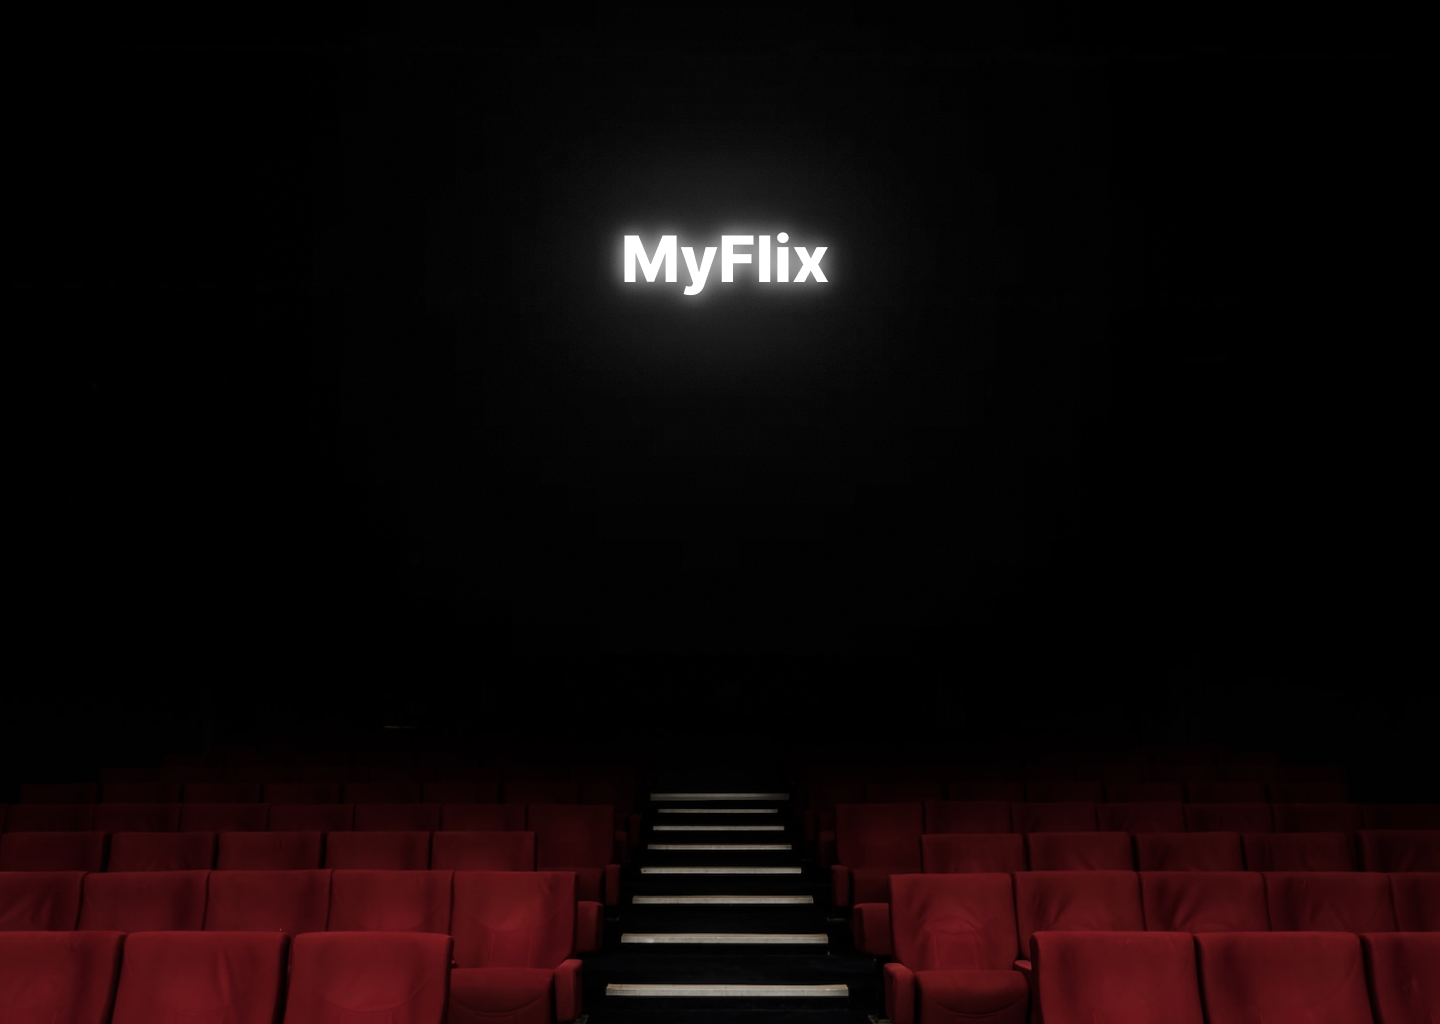
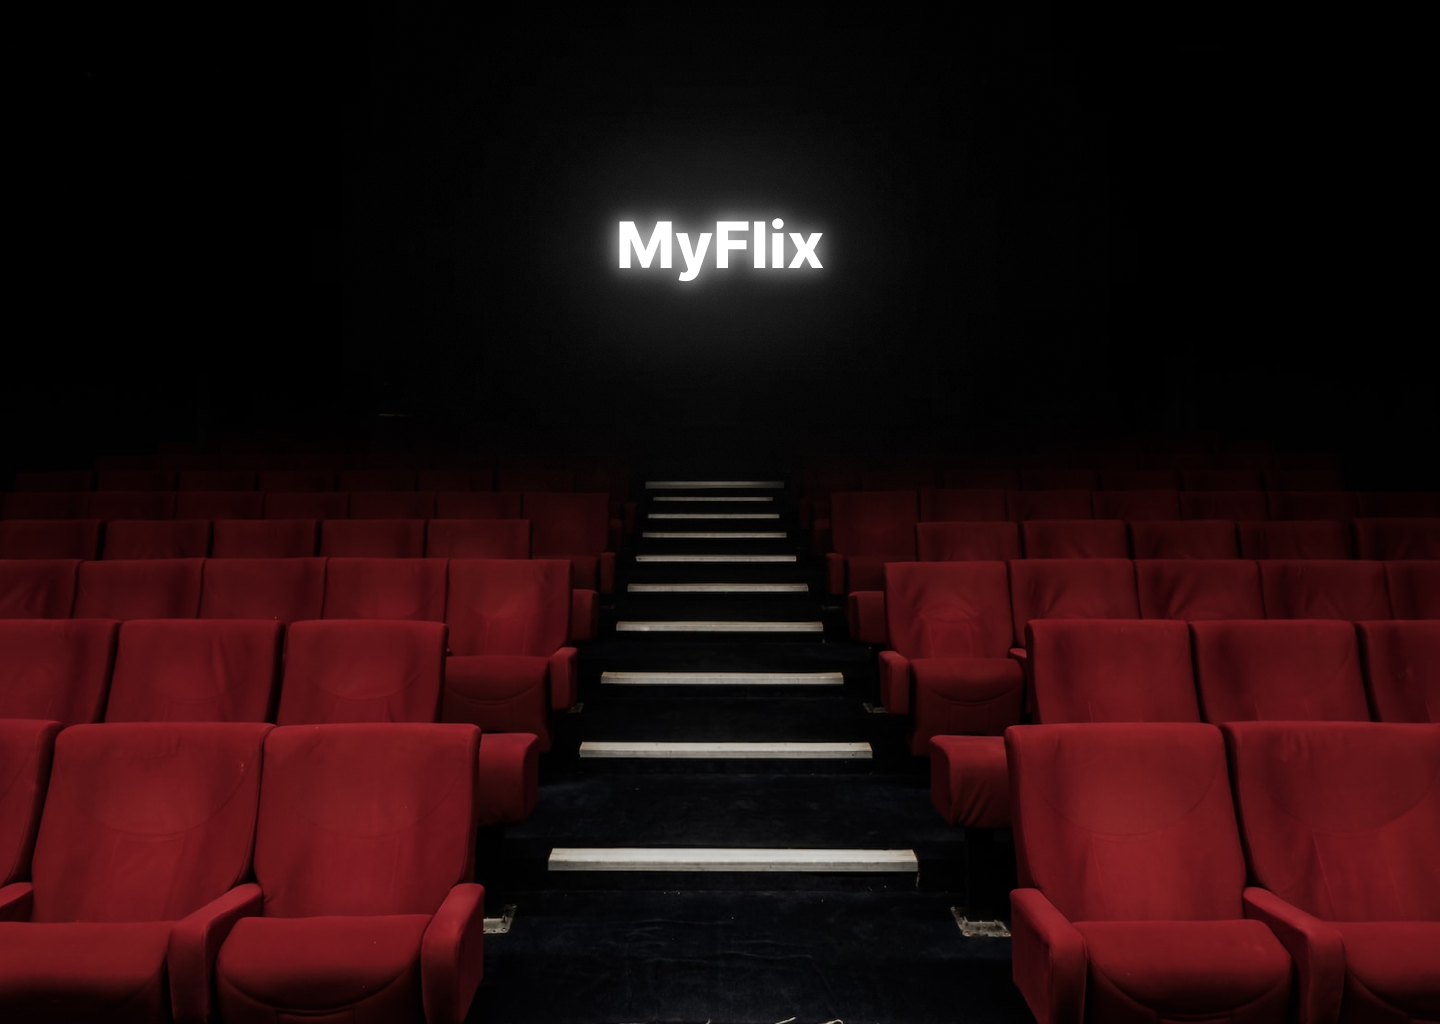
background pic updated in the login page

diff --git a/src/app/welcome-page/welcome-page.component.scss b/src/app/welcome-page/welcome-page.component.scss
@@ -9,11 +9,11 @@ h1{
     justify-content: center;
     height: 100vh;
     text-align: center;
+    background-image: url('./Desktop\ -\ 10.png');
+    background-size: 100%;
+    
+    
   }
   
-//   .main-page > * {
-//     margin-top: 100px;
-//   }
- 
 
   

diff --git a/src/app/welcome-page/welcome-page.component.html b/src/app/welcome-page/welcome-page.component.html
@@ -1,6 +1,6 @@
 <div class="main-page">
   
-    <h1>MyFlix</h1>
+    <!-- <h1>MyFlix</h1> -->
    <div class="buttons">
     <button
       mat-raised-button
